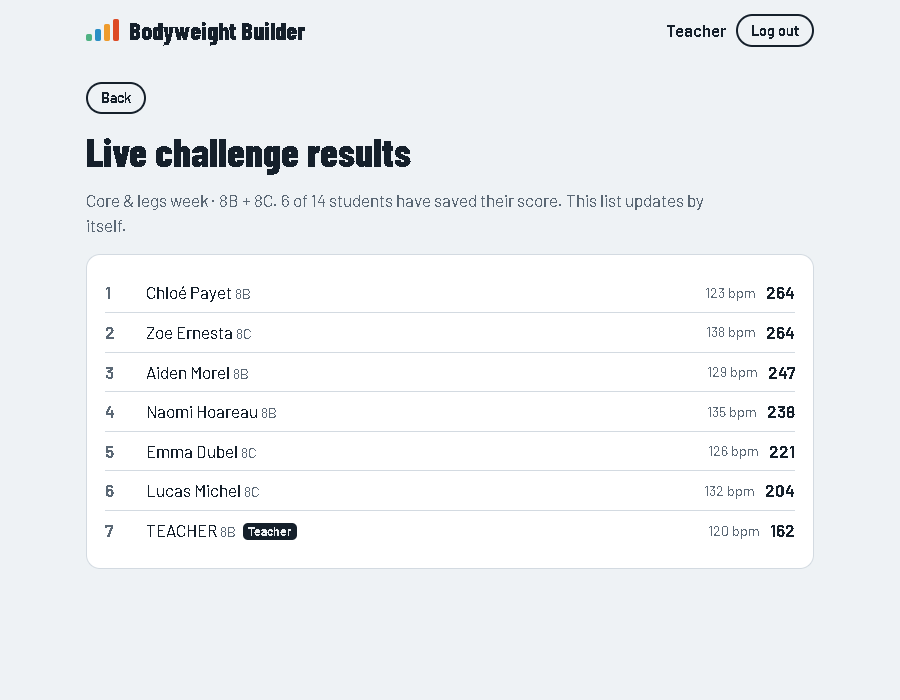
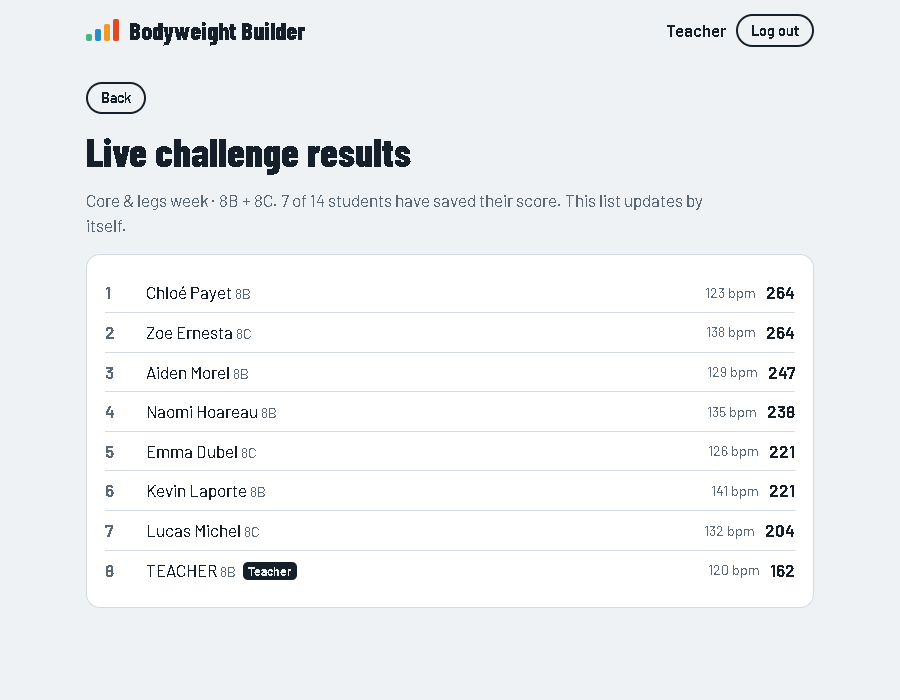
Screenshot for every tutorial step, and a presentation page
- Student and teacher tutorials: every step now has a screenshot (install help,
  teacher login, student page, settings drawer, follow-up view added)
- presentation.html: a page presenting the app to colleagues, with screenshots

diff --git a/presentation.html b/presentation.html
@@ -1,0 +1,126 @@
+<!doctype html>
+<html lang="en">
+<head>
+<meta charset="utf-8">
+<meta name="viewport" content="width=device-width, initial-scale=1, viewport-fit=cover">
+<title>Bodyweight Builder</title>
+<link rel="preconnect" href="https://fonts.googleapis.com">
+<link href="https://fonts.googleapis.com/css2?family=Barlow+Condensed:wght@700;800&family=Barlow:wght@400;600;700&display=swap" rel="stylesheet">
+<style>
+:root{
+  /* Layout: a long scroll of numbered student phones, then teacher screens in pairs; level colours carry the identity */
+  --bg:#EEF2F5; --card:#FFFFFF; --ink:#15202B; --muted:#56636F; --line:#D3DAE1;
+  --l1:#4FB283; --l2:#2B8FC6; --l3:#EE9B2D; --l4:#DD4B26; --pulse:#B3261E; --onpulse:#FFFFFF;
+  --display:'Barlow Condensed','Arial Narrow',Impact,sans-serif; --body:'Barlow',system-ui,-apple-system,'Segoe UI',Roboto,sans-serif;
+}
+@media (prefers-color-scheme:dark){:root:not([data-theme="light"]){--bg:#10161D;--card:#19222C;--ink:#E7EDF3;--muted:#9BA9B7;--line:#2A3542;color-scheme:dark}}
+:root[data-theme="dark"]{--bg:#10161D;--card:#19222C;--ink:#E7EDF3;--muted:#9BA9B7;--line:#2A3542;color-scheme:dark}
+*{box-sizing:border-box}
+body{background:var(--bg);color:var(--ink);font:17px/1.55 var(--body);margin:0;padding-inline:16px;padding-block:0 48px}
+main{max-width:1080px;margin:0 auto}
+h1,h2,h3{font-family:var(--display);line-height:1.02;text-wrap:balance;margin:0}
+h1{font-size:clamp(2.6rem,7vw,4.6rem);font-weight:800}
+h2{font-size:clamp(1.9rem,4.2vw,2.7rem);font-weight:800;margin-bottom:.35em}
+h3{font-size:1.35rem;font-weight:700}
+p{margin:0}
+.lead{font-size:1.2rem;color:var(--muted);max-width:56ch}
+.bars{display:flex;gap:6px;align-items:flex-end;height:44px;margin-bottom:18px}
+.bars i{display:block;width:12px;border-radius:3px}
+.bars i:nth-child(1){height:30%;background:var(--l1)}.bars i:nth-child(2){height:55%;background:var(--l2)}
+.bars i:nth-child(3){height:78%;background:var(--l3)}.bars i:nth-child(4){height:100%;background:var(--l4)}
+.hero{display:grid;grid-template-columns:minmax(0,1.25fr) minmax(0,.75fr);gap:40px;align-items:center;padding-block:56px 40px}
+.hero .phone{justify-self:center}
+.btn{display:inline-block;font:700 1rem var(--body);background:var(--ink);color:var(--bg);text-decoration:none;border-radius:999px;padding:.75em 1.4em}
+.btn:focus-visible,a:focus-visible{outline:3px solid var(--l2);outline-offset:3px}
+.facts{display:flex;flex-wrap:wrap;gap:28px;margin-top:28px}
+.facts div{min-width:120px}
+.facts b{display:block;font-family:var(--display);font-size:2.3rem;font-weight:800;line-height:1;font-variant-numeric:tabular-nums}
+.facts span{color:var(--muted);font-size:.95rem}
+.phone{width:100%;max-width:260px;border-radius:26px;border:8px solid var(--ink);display:block;background:var(--card)}
+section{padding-block:44px;border-top:1px solid var(--line)}
+.steps{list-style:none;padding:0;margin:28px 0 0;display:grid;grid-template-columns:repeat(auto-fill,minmax(200px,1fr));gap:28px 22px;counter-reset:s}
+.steps li{counter-increment:s;display:flex;flex-direction:column;gap:8px;min-width:0}
+.steps li::before{content:counter(s);font-family:var(--display);font-weight:800;font-size:1.1rem;color:var(--muted)}
+.steps .phone{max-width:none;border-width:6px;border-radius:20px}
+.steps li.pulse .phone{border-color:var(--pulse)}
+.steps p{color:var(--muted);font-size:.97rem}
+.group{margin-top:34px}
+.group > h3{font-size:1.05rem;letter-spacing:.08em;text-transform:uppercase;color:var(--muted);margin-bottom:14px}
+.screens{display:grid;grid-template-columns:repeat(3,minmax(0,1fr));gap:22px}
+.screens figure{margin:0;display:flex;flex-direction:column;gap:8px;min-width:0}
+.screens img{width:100%;border:1px solid var(--line);border-radius:12px;display:block;background:var(--card);aspect-ratio:16/12;object-fit:cover;object-position:top}
+.screens figcaption p{color:var(--muted);font-size:.95rem}
+.band{background:var(--pulse);color:var(--onpulse);border-radius:18px;padding:32px;display:grid;grid-template-columns:minmax(0,1fr) auto;gap:28px;align-items:center;margin-top:8px}
+.band .lead{color:var(--onpulse);opacity:.92}
+.band .phone{max-width:200px;border-color:var(--onpulse)}
+.start{list-style:none;padding:0;margin:20px 0 0;display:grid;gap:12px;max-width:760px;counter-reset:g}
+.start li{counter-increment:g;background:var(--card);border:1px solid var(--line);border-radius:12px;padding:14px 16px 14px 56px;position:relative}
+.start li::before{content:counter(g);position:absolute;left:16px;top:12px;font-family:var(--display);font-weight:800;font-size:1.5rem;color:var(--l2)}
+.cols{display:grid;grid-template-columns:repeat(2,minmax(0,1fr));gap:22px;margin-top:20px}
+.cols div{background:var(--card);border:1px solid var(--line);border-radius:12px;padding:18px}
+.cols p{color:var(--muted);margin-top:6px}
+footer{border-top:1px solid var(--line);padding-top:24px;color:var(--muted);font-size:.95rem}
+@media (max-width:800px){.hero{grid-template-columns:1fr;padding-block:36px 24px}.hero .phone{max-width:220px}.screens{grid-template-columns:1fr 1fr}.band{grid-template-columns:1fr}.band .phone{justify-self:center}.cols{grid-template-columns:1fr}}
+@media (max-width:520px){.screens{grid-template-columns:1fr}.steps{grid-template-columns:1fr 1fr;gap:22px 14px}}
+@media (prefers-reduced-motion:reduce){*{scroll-behavior:auto}}</style>
+</head>
+<body>
+<main>
+  <header class="hero">
+    <div>
+      <div class="bars" aria-hidden="true"><i></i><i></i><i></i><i></i></div>
+      <h1>Bodyweight Builder</h1>
+      <p class="lead" style="margin-top:14px">The PE department's home-training app. Students follow timed bodyweight workouts on their phone, log every rep, and compete with their class. Teachers set the challenges, train live with whole forms and see every result.</p>
+      <p style="margin-top:22px"><a class="btn" href="https://mrleo-pe.github.io/Bodyweight_Training/">Open the app</a></p>
+      <div class="facts">
+        <div><b>80</b><span>exercises: 20 movements, 4 levels each</span></div>
+        <div><b>0</b><span>accounts to create: a class code and a PIN</span></div>
+        <div><b>1</b><span>shared timer for a whole live session</span></div>
+      </div>
+    </div>
+    <img src="tutorial/home.png" alt="A student's home page" loading="lazy" class="phone">
+  </header>
+
+  <section aria-labelledby="st">
+    <h2 id="st">For students: ten steps, one routine</h2>
+    <p class="lead">From scanning the class code to the leaderboard. The same routine works at home, in a lesson, or live with the whole form.</p>
+    <ol class="steps"><li class=""><img src="tutorial/join.png" alt="Join the class" loading="lazy" class="phone"><h3>Join the class</h3><p>Students scan the QR code on the class sheet, or type their form and class code.</p></li><li class=""><img src="tutorial/name.png" alt="Pick a name, make a PIN" loading="lazy" class="phone"><h3>Pick a name, make a PIN</h3><p>They choose their name and create a 4-digit PIN. No email, no account to set up.</p></li><li class=""><img src="tutorial/home.png" alt="One clear page" loading="lazy" class="phone"><h3>One clear page</h3><p>This week's progress, then the teacher's challenge with its due date. Everything else waits under More.</p></li><li class=""><img src="tutorial/programme.png" alt="See the workout" loading="lazy" class="phone"><h3>See the workout</h3><p>The exercises in order. Where the teacher allows it, each student picks the level that challenges them.</p></li><li class=""><img src="tutorial/work.png" alt="Follow the timer" loading="lazy" class="phone"><h3>Follow the timer</h3><p>Full-screen timer with beeps and a voice coach. Exercises cannot be skipped.</p></li><li class=""><img src="tutorial/rest.png" alt="Log in the rest" loading="lazy" class="phone"><h3>Log in the rest</h3><p>During each rest, students type their reps or seconds held.</p></li><li class="pulse"><img src="tutorial/pulse.png" alt="Heart-rate check" loading="lazy" class="phone"><h3>Heart-rate check</h3><p>After the last exercise the screen turns red: find the pulse, count for 30 seconds, then cool down.</p></li><li class=""><img src="tutorial/summary.png" alt="Points, bpm and effort" loading="lazy" class="phone"><h3>Points, bpm and effort</h3><p>The beats are doubled into bpm. Points reward reps, holds and harder levels.</p></li><li class=""><img src="tutorial/live.png" alt="Live with the class" loading="lazy" class="phone"><h3>Live with the class</h3><p>When the teacher starts a live challenge, every student taps "I'm ready" and starts at the same second.</p></li><li class=""><img src="tutorial/board.png" alt="Leaderboards and badges" loading="lazy" class="phone"><h3>Leaderboards and badges</h3><p>Class leaderboards, a form cup, ranks from Rookie to Legend, badges and a weekly streak.</p></li></ol>
+  </section>
+
+  <section aria-labelledby="hr">
+    <div class="band">
+      <div><h2 id="hr">A heart-rate check in every workout</h2>
+        <p class="lead" style="margin-top:8px">After the last exercise and before the cool-down, the screen turns red. Students stop, find their pulse on the wrist or neck, and count for 30 seconds. They type the number, and the app doubles it into beats per minute. Teachers see every student's bpm next to their score.</p></div>
+      <img src="tutorial/pulse.png" alt="The red heart-rate screen" loading="lazy" class="phone">
+    </div>
+  </section>
+
+  <section aria-labelledby="te">
+    <h2 id="te">For teachers: set, train, check</h2>
+    <p class="lead">Everything happens from one teacher page, for every form in the school. A full tutorial with screenshots is built into the app.</p>
+    <div class="group"><h3>Set up</h3><div class="screens"><figure><img src="tutorial/teacher/home.png" alt="The Classes page" loading="lazy" class=""><figcaption><h3>The Classes page</h3><p>Every form of the school, with the main actions on top: set a challenge, saved challenges, results, import.</p></figcaption></figure><figure><img src="tutorial/teacher/import.png" alt="Import your lists" loading="lazy" class=""><figcaption><h3>Import your lists</h3><p>Excel, LibreOffice or CSV. The app finds names, forms and gender, and keeps a list of imported files.</p></figcaption></figure><figure><img src="tutorial/teacher/sheet.png" alt="Class sheet with QR code" loading="lazy" class=""><figcaption><h3>Class sheet with QR code</h3><p>Show it on the board or print it: students join in under a minute.</p></figcaption></figure></div></div><div class="group"><h3>Set challenges</h3><div class="screens"><figure><img src="tutorial/teacher/builder.png" alt="Build a challenge" loading="lazy" class=""><figcaption><h3>Build a challenge</h3><p>8 to 12 exercises from 80, a due date, the forms or year group, and boys only or girls only when classes are split.</p></figcaption></figure><figure><img src="tutorial/teacher/saved.png" alt="Saved challenges" loading="lazy" class=""><figcaption><h3>Saved challenges</h3><p>A shared library for the whole PE department. Use a challenge again in two clicks.</p></figcaption></figure><figure><img src="tutorial/teacher/class.png" alt="Follow each form" loading="lazy" class=""><figcaption><h3>Follow each form</h3><p>Who has done it, on time, late or missed, with every score and a list of names to follow up.</p></figcaption></figure></div></div><div class="group"><h3>Train live</h3><div class="screens"><figure><img src="tutorial/teacher/acct.png" alt="Several forms together" loading="lazy" class=""><figcaption><h3>Several forms together</h3><p>Tick the forms that take part, for example 8B and 8C, and open the session.</p></figcaption></figure><figure><img src="tutorial/teacher/live.png" alt="Wait for everyone" loading="lazy" class=""><figcaption><h3>Wait for everyone</h3><p>See who is ready. It starts when all are ready, or when you press Start now.</p></figcaption></figure><figure><img src="tutorial/teacher/lvboard.png" alt="One leaderboard" loading="lazy" class=""><figcaption><h3>One leaderboard</h3><p>All the forms in one ranking, teacher included, updating as people save.</p></figcaption></figure></div></div><div class="group"><h3>Check results</h3><div class="screens"><figure><img src="tutorial/teacher/board.png" alt="Results board" loading="lazy" class=""><figcaption><h3>Results board</h3><p>Every student, filtered by year, form, gender, period and challenge status. Downloads to Excel.</p></figcaption></figure><figure><img src="tutorial/teacher/student.png" alt="Each student's progress" loading="lazy" class=""><figcaption><h3>Each student's progress</h3><p>Workouts, points, levels over time, personal bests and fitness checks.</p></figcaption></figure><figure><img src="tutorial/teacher/students.png" alt="Manage the class" loading="lazy" class=""><figcaption><h3>Manage the class</h3><p>Gender, moving forms, and PIN resets for one student, a selection or the whole class.</p></figcaption></figure></div></div>
+  </section>
+
+  <section aria-labelledby="go">
+    <h2 id="go">Start with your classes</h2>
+    <ol class="start">
+      <li><b>Log in as Teacher</b> with the department PIN, and open <b>Teacher tutorial</b> for the full guide.</li>
+      <li><b>Import your class lists</b> from Excel. The forms are created for you.</li>
+      <li><b>Give each form its class sheet</b> with the QR code. Students join and create their PIN in the lesson.</li>
+      <li><b>Pick a challenge</b> from Saved challenges and give it to your forms with a due date.</li>
+      <li><b>Run the first live challenge in a lesson</b>, so students learn the routine before training at home.</li>
+    </ol>
+  </section>
+
+  <section aria-labelledby="sf">
+    <h2 id="sf">Safety and data</h2>
+    <div class="cols">
+      <div><h3>Safe by design</h3><p>Every workout starts with a warm-up and ends with stretches. Each exercise has a how-to guide with a safety point. Students choose levels they can manage, and scores that look impossible are flagged for the teacher.</p></div>
+      <div><h3>Data kept small</h3><p>Only names, forms, gender, workouts and heart rate are stored, behind a class code and a PIN. Students see only their own data and class leaderboards. Teachers can export or back up everything, and delete old lists.</p></div>
+    </div>
+  </section>
+
+  <footer><p>Bodyweight Builder · PE department. App: <a href="https://mrleo-pe.github.io/Bodyweight_Training/" style="color:inherit">https://mrleo-pe.github.io/Bodyweight_Training/</a></p></footer>
+</main>
+</body>
+</html>

diff --git a/index.html b/index.html
@@ -1726,7 +1726,7 @@ const TUTORIAL = [
   ['Heart rate check', 'After the last exercise the screen turns red. Stop and put two fingers (not your thumb) on your wrist, below the thumb, or on the side of your neck. When the 30-second clock starts, count every beat until it reaches 0, and remember your number. Then the stretches begin.', 'pulse'],
   ['Save your workout', 'Type the beats you counted: the app doubles it to give your beats per minute (bpm). Then check your scores, choose how hard it felt from 1 to 10, and save. Every rep is 1 point and every second held is half a point, and harder levels are worth more.', 'summary'],
   ['Train live with your class', 'When your teacher starts a live challenge, an alert appears on your page: tap <b>I\'m ready</b> and keep the app open. The workout starts for everyone at the same moment. If you are late, tap <b>Join now</b>. After saving, you see one leaderboard with everyone who took part, even from other forms.', 'live'],
-  ['Add it to your home screen', 'On your phone, add the app to your home screen so it opens like a normal app and starts quickly. Tap "Add the app to your home screen" on your page for the steps.', null],
+  ['Add it to your home screen', 'On your phone, add the app to your home screen so it opens like a normal app and starts quickly. Tap "Add the app to your home screen" on your page for the steps.', 'install'],
   ['See your points and progress', 'Open the <b>Me and my class</b> tab to compare with your class on the leaderboards, help your form win the form cup, collect badges, climb from Rookie to Legend and keep your weekly streak going.', 'board']
 ];
 function showTutorial(){
@@ -2992,7 +2992,7 @@ function showClassSheet(c, back){
 // Teacher tutorial: every option, in the order a new colleague needs them. Screenshots are in tutorial/teacher/.
 const TEACHER_GUIDE = [
   ['Getting started', [
-    ['Log in', 'On the first screen press <b>Teacher</b> and type the teacher PIN. Every PE teacher uses the same PIN and sees every class. Each class name list also ends with <b>TEACHER</b>: log in there with the teacher PIN to do workouts and live challenges like a student.', null],
+    ['Log in', 'On the first screen press <b>Teacher</b> and type the teacher PIN. Every PE teacher uses the same PIN and sees every class. Each class name list also ends with <b>TEACHER</b>: log in there with the teacher PIN to do workouts and live challenges like a student.', 'login'],
     ['The Classes page', 'Three main buttons: <b>Set a challenge workout</b>, <b>Saved challenges</b> and <b>Results board</b>, plus <b>Import students</b>. Below, the getting-started list ticks itself as you go. Each class card has <b>Open</b>, <b>Class sheet</b>, <b>☆ Mine</b> (puts your forms first on this device) and <b>Download</b>. Less used tools are in the drawers at the bottom.', 'home']]],
   ['Students', [
     ['Import your class lists', 'Press <b>Import students</b> and choose an Excel, LibreOffice or CSV file (from Google Sheets, download it as .xlsx first). The app finds the name, form and gender columns and shows a preview: check it, then import. It creates the forms and moves students who changed form. <b>Files already imported</b> lists every file: press <b>✕</b> to delete an old version and the students who are not in a newer file.', 'import'],
@@ -3008,10 +3008,10 @@ const TEACHER_GUIDE = [
     ['The live leaderboard', 'After the workout everyone counts their pulse, saves their score and sees one leaderboard for the whole live challenge: all the forms together, with each name\'s form, bpm and points. It updates as others save. Each result also counts for the student\'s own form\'s challenge.', 'lvboard']]],
   ['Results', [
     ['Results board', 'One page with every student. Filter by year group, form, gender, period (this week, last 4 weeks, the challenge, all time) and challenge status (on time, late, not done, missed). <b>Only students with nothing done</b> and <b>Copy names</b> help you follow up. The By class table compares forms, and <b>Download this view</b> gives an Excel file.', 'board'],
-    ['Student pages and Excel', 'Click any name to see that student\'s full progress: workouts, levels, personal bests and fitness checks. Each class card has <b>Download (.xlsx)</b>, and the Settings drawer downloads every class at once. Scores that look too high are marked <b>Check</b>, with the reason.', null]]],
+    ['Student pages and Excel', 'Click any name to see that student\'s full progress: workouts, levels, personal bests and fitness checks. Each class card has <b>Download (.xlsx)</b>, and the Settings drawer downloads every class at once. Scores that look too high are marked <b>Check</b>, with the reason.', 'student']]],
   ['Settings and good habits', [
-    ['Settings drawer', 'At the bottom of the Classes page: team <b>class challenges</b> (for example "Year 10: 1,000 workouts this half-term"), your own <b>demo videos</b> for any exercise, <b>backup</b> to Excel or a full file, <b>new school year</b> (moves every class up a year and keeps PINs) and <b>change teacher PIN</b>. On a class page you can also pick a <b>star of the week</b> and open a <b>fitness check</b>.', null],
-    ['Good habits', 'Set one challenge a week with a clear due date, ideally from Saved challenges. Start live challenges in a lesson first so students learn the routine. Check the results board each week and copy the names of students with nothing done. Download a backup each month. Use a long teacher PIN and never show it to students.', null]]]
+    ['Settings drawer', 'At the bottom of the Classes page: team <b>class challenges</b> (for example "Year 10: 1,000 workouts this half-term"), your own <b>demo videos</b> for any exercise, <b>backup</b> to Excel or a full file, <b>new school year</b> (moves every class up a year and keeps PINs) and <b>change teacher PIN</b>. On a class page you can also pick a <b>star of the week</b> and open a <b>fitness check</b>.', 'settings'],
+    ['Good habits', 'Set one challenge a week with a clear due date, ideally from Saved challenges. Start live challenges in a lesson first so students learn the routine. Check the results board each week and copy the names of students with nothing done. Download a backup each month. Use a long teacher PIN and never show it to students.', 'habits']]]
 ];
 function showTeacherGuide(){
   setView(`<p class="noprint"><button class="btn ghost small" id="back">Back</button> <button class="btn small" id="print">Print this page</button></p>

diff --git a/README.md b/README.md
@@ -59,6 +59,7 @@ The whole app is one file, [index.html](index.html). Data is stored in Supabase.
 - **Challenge workout:** build it with the same builder from the exercise list, add a message and a due date, and give it to a whole year group or chosen forms at once. For each exercise, either fix the level for everyone or tick "Students choose their own level". See who has done it and who has not.
 - **Boys only or girls only:** students always stay in their form. When a challenge is set, **For** can be Everyone, Boys only or Girls only. A form can have an everyone challenge and a boys-only one at the same time: each student sees the one that fits, and the class page shows a panel for each, counting only the students it is for. Live sessions can also be opened for the boys or the girls of a form. This uses the gender saved for each student.
 - **Getting started, My classes, class sheet, teacher guide:** a checklist on the teacher page (import students, set a challenge, give out the class code, try a live session) that hides when done; **☆ Mine** to put your forms first (saved on your device); a printable **class sheet** with the class code, a QR code and three login steps; and a **How it works (teachers)** page that can be printed for a staff meeting.
+- **Presentation page:** [presentation.html](presentation.html) presents the app to colleagues and school leadership, with screenshots of every student step and the main teacher screens.
 - **Teacher tutorial:** a full guide for colleagues inside the teacher page (button **Teacher tutorial** on the Classes page): 15 steps with screenshots in 6 topics (getting started, students, challenges, live challenges, results, settings and good habits), with buttons to jump to a topic and a Print button. Screenshots are in [tutorial/teacher/](tutorial/teacher/).
 - **Train together (live):** on the class page, start the challenge workout with the whole class at the same time, for example during a video call. The teacher uses their own teacher page and never logs into students' accounts. Each student taps **I'm ready** on their own page, and the page shows who is ready. The workout starts for everyone when the whole class is ready, or when you press **Start now**. Your own timer runs in step with theirs (nothing is saved for you), and each student saves their own score as usual. Only students with the app open get the alert, so ask them to open it first.
 - **Deadline:** once the due date has passed, the class page shows how many did it on time, late, or missed it. Late tries are tagged **Late** in the results, and the results board can show only students who did it on time, late, not done or missed.
